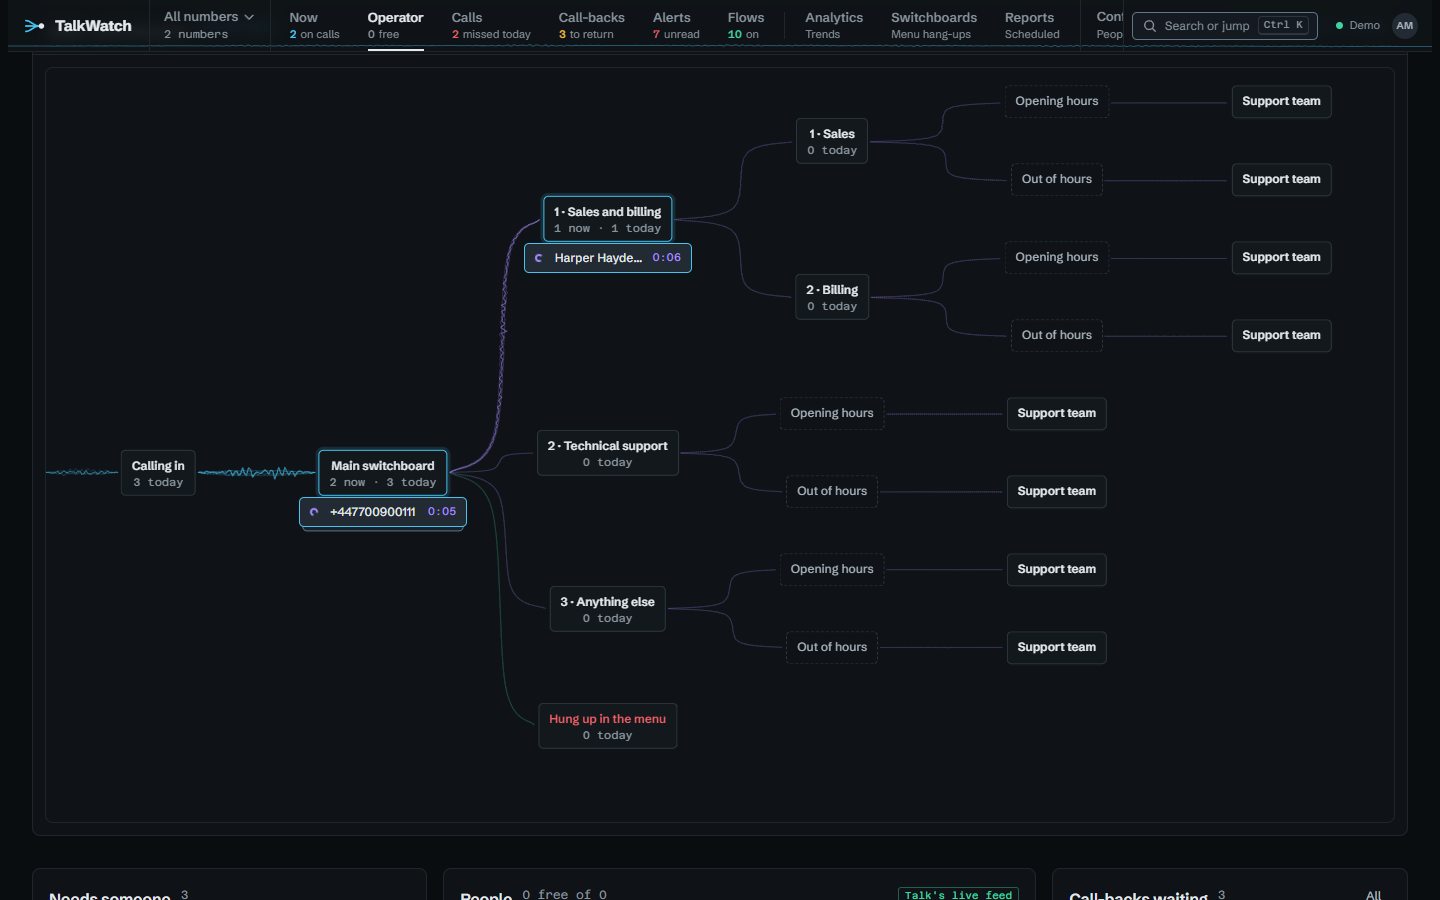
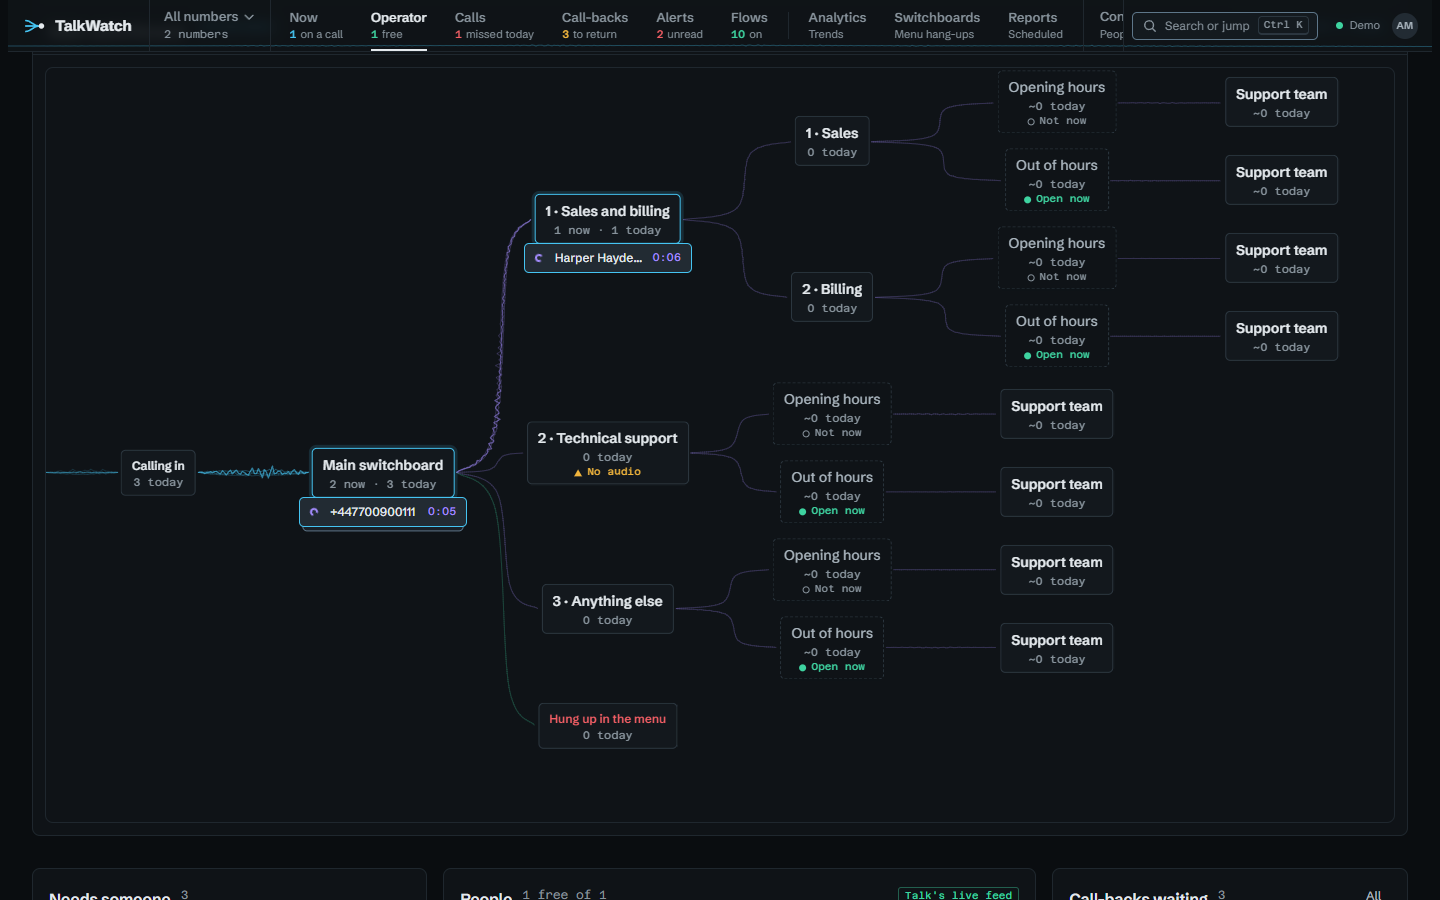
Operator's pictures, taken again with the stage badges, and one of a stage's panel

diff --git a/docs/operator.md b/docs/operator.md
@@ -37,6 +37,8 @@ calls took them.
 
 ### A stage's panel
 
+![The main switchboard's panel: its greeting, where each key goes, its health, and the setup an admin sees](images/operator-panel.png)
+
 Choose a switchboard stage to open its panel beside the flow, without leaving
 the page. It shows what callers hear, with a button to play the greeting.
 Each play is written to the audit log, as playing a recording is. It also
